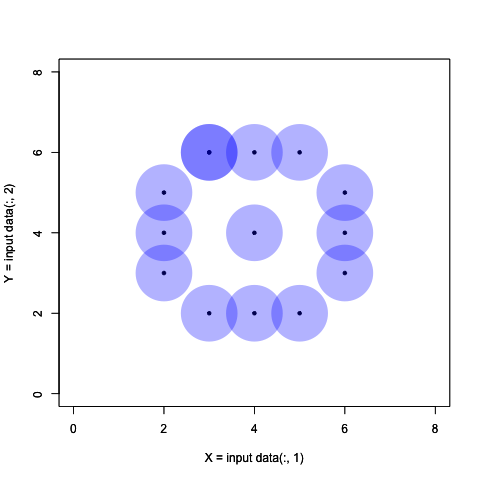
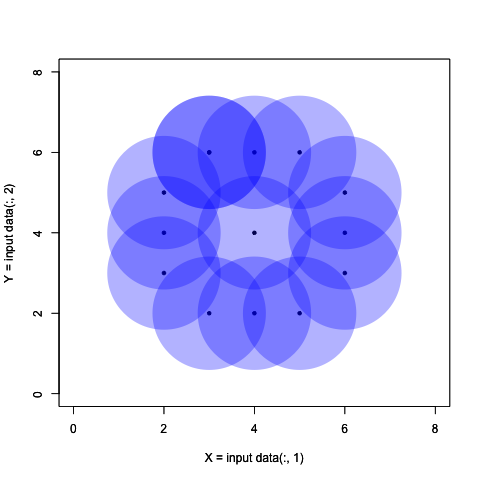
Comp:slide show

Changed region(s): [[0.2188, 0.1875, 0.8438, 0.7812]]

diff --git a/html/step3.html b/html/step3.html
@@ -13,7 +13,17 @@
     <script type="text/javascript">
             $(document).ready(function(){
                 $('.bxslider').bxSlider({
-                    auto: true,
+                    //自動スライド
+                    auto: false,
+
+                    //幅設定
+                    slideWidth: 440,
+
+                    //スライドスピード
+                    speed: 400,
+
+                    //キャプション（つける場合はtrue, imgタグの中にtitleを記述）
+                    captions: true,
                 });
         	});
     </script>
@@ -35,21 +45,19 @@
 
         <p class="index">
 
-          <a href="../html/step4.html" class="button" target="_blank">RESULT</a>
+          <form class="ex" action="../php/step4.php" method="post" enctype="multipart/form-data" align="left">
 
+            <input type="submit" class="button" value="　RESULT　">
+         </form>
+
+          <!-- スライドショー -->
+          <center>
           <dvi class="tda">
-          <ul class="bxslider">
-		          <li><img src="../get_data/tda-1.png"></li>
-		          <li><img src="../get_data/tda-2.png"></li>
-		          <li><img src="../get_data/tda-3.png"></li>
-              <li><img src="../get_data/tda-4.png"></li>
-		          <li><img src="../get_data/tda-5.png"></li>
-              <li><img src="../get_data/tda-6.png"></li>
-              <li><img src="../get_data/tda-7.png"></li>
-              <li><img src="../get_data/tda-8.png"></li>
-	        </ul>
-        </dvi>
-
+            <ul class="bxslider">
+                <?php echo $output ?>
+  	        </ul>
+          </dvi>
+        </center>
         </p>
     </div>
 

diff --git a/css/jquery.bxslider.css b/css/jquery.bxslider.css
@@ -178,18 +178,18 @@ ul.bxslider {
 
 
 ul.bxslider li {
-  // 指定したい幅と高さ
+  /*指定したい幅と高さ*/
   width: 100px;
-  height: 200px;
+  height: 280px;;
   position: relative;
 }
 ul.bxslider li img {
   position: absolute;
-  top: 0;
+  top: -20px;
   right: 0;
   bottom: 0;
   left: 0;
   max-width: 100%;
-  max-height: 120%;
+  max-height: 100%;
   margin: auto;
 }

diff --git a/html/step4.html b/html/step4.html
@@ -24,7 +24,7 @@
 
         <p class="index">
           トポロジカルデータ分析の結果のグラフ（バーコード）です。<br>
-          <img src="../get_data/barcode.png" width="30%" height="50%" align="left">
+          <img src="../result/barcode.png" width="30%" height="50%" align="left">
 
           <p class="ex">
             <br>

diff --git a/html/step2.html b/html/step2.html
@@ -30,7 +30,7 @@
 
           <p class="ex">
 
-            <br>
+            
             <form class="ex" action="../php/step3.php" method="post" enctype="multipart/form-data" align="left">
 
               <label>

diff --git a/css/main.css b/css/main.css
@@ -116,5 +116,5 @@
 }
 
 #main .tda{
-  width: 80%;
+  font-size: 15px;
 }

diff --git a/php/step3.php b/php/step3.php
@@ -10,10 +10,32 @@ $pngs = $_POST['pngs'];
 #Rscript tda_image.r -> TDA適用時のイメージ画像、バーコード出力
 #tda_image.pyも作成したがtda_image.rの方が早いのでボツ
 
-$r_ex = "/usr/local/bin/Rscript ../R_Python/tda_image.r $notch $pngs";
-
+$r_ex = "/usr/local/bin/Rscript ../R_Python_sh/tda_image.r $notch $pngs";
 $output = shell_exec("{$r_ex} 2>&1");
 //print_r($output);
+
+
+################ 画像出力 ############################
+
+#tda_image.rで得られた画像を全てスライドショーに加える
+
+#データ点の直径
+$dm = $notch;
+
+#../get_dataに保存されたtdaから始まる画像ファイルのパスを全て取得
+foreach(glob('../get_data/tda*',GLOB_BRACE) as $file){
+    if(is_file($file)){
+
+      //キャプション用
+      $title = "Diameter:$dm";
+
+      #<li><img src="ファイルパス"></li>で画像を出力
+      #全てのファイルの<li><img src="ファイルパス"></li>を.=で結合
+      $output .= "<li><img src=$file title=$title></li>";
+
+      $dm = $dm + $notch;
+    }
+}
 
 #最後に書く
 require('../html/step3.html');

diff --git a/php/step2.php b/php/step2.php
@@ -47,10 +47,10 @@ if (is_uploaded_file($tempfile)) {
 #python preprocessing.py -> データ整形,可視化
 
 #パスが追加されていないためコマンドのパスを記述する必要がある
-$py_ex = "/Users/nakayamarina/.pyenv/shims/Python ../R_Python/preprocessing.py $file_type $row_names $column_names";
+$py_ex = "/Users/nakayamarina/.pyenv/shims/Python ../R_Python_sh/preprocessing.py $file_type $row_names $column_names";
 
 $output1 = shell_exec("{$py_ex} 2>&1");
-print_r($output1);
+//print_r($output1);
 
 #最後に書く
 require('../html/step2.html')

diff --git a/php/step4.php b/php/step4.php
@@ -1,0 +1,14 @@
+<?php
+
+#Rscript tda_image.r -> TDA適用時のイメージ画像、バーコード出力
+#tda_image.pyも作成したがtda_image.rの方が早いのでボツ
+
+$sh_ex = "/bin/sh ../R_Python_sh/remove.sh";
+$output = shell_exec("{$sh_ex} 2>&1");
+//print_r($output);
+
+
+#最後に書く
+require('../html/step4.html');
+
+?>
